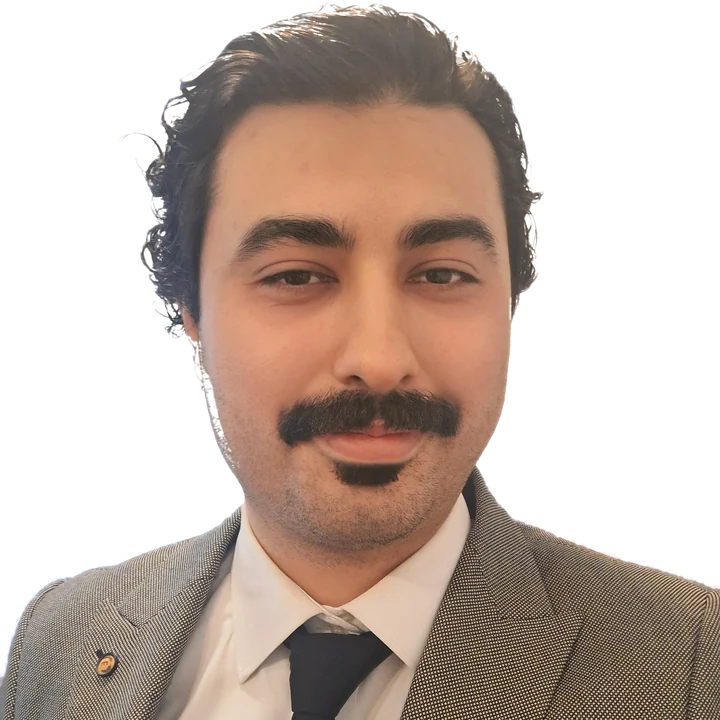
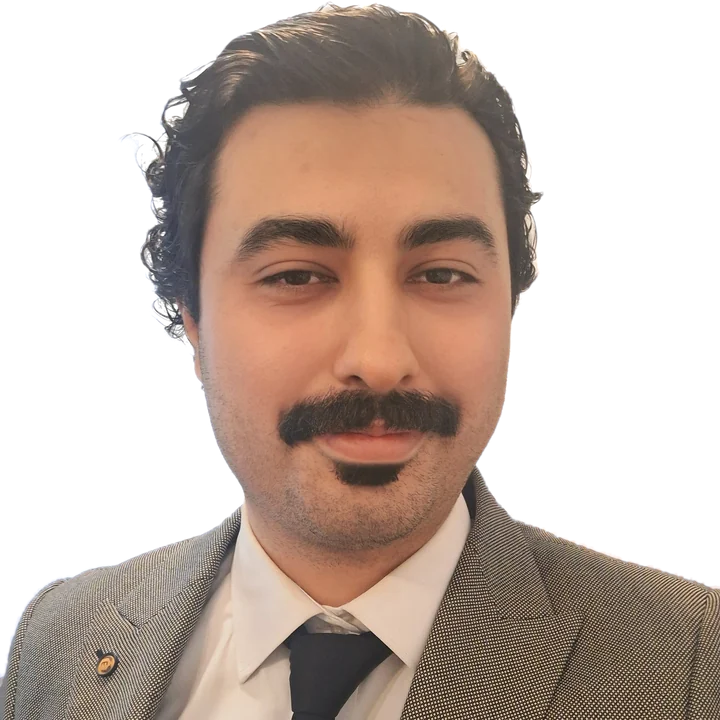
Fix portrait cutout and restore Python on the thesis page
Claude-Session: https://claude.ai/code/session_014ouKrV8vToS1MCxCgtcfN7

diff --git a/projects/msc-thesis.html b/projects/msc-thesis.html
@@ -22,12 +22,12 @@
 </div></header>
 <main id="main"><div class="wrap">
 <a class="back" href="../index.html#projects">← All projects</a>
-<div class="p-head"><span class="eyebrow">MSc thesis · Concordia · 2025</span><h1>Paradoxical Value Co-Creation Through Destructive Behaviors: Trash Talking in Dota 2</h1><p class="lead">Co-creation is usually tied to positive behavior. My thesis asked how a negative behavior, trash talking in one of the most competitive online games, can still create value for the people involved.</p><div class="tags"><span class="tag">User research</span><span class="tag">Semi-structured interviews</span><span class="tag">Inductive coding</span><span class="tag">Thematic analysis</span></div>
+<div class="p-head"><span class="eyebrow">MSc thesis · Concordia · 2025</span><h1>Paradoxical Value Co-Creation Through Destructive Behaviors: Trash Talking in Dota 2</h1><p class="lead">Co-creation is usually tied to positive behavior. My thesis asked how a negative behavior, trash talking in one of the most competitive online games, can still create value for the people involved.</p><div class="tags"><span class="tag">User research</span><span class="tag">Semi-structured interviews</span><span class="tag">Python</span><span class="tag">Inductive coding</span><span class="tag">Thematic analysis</span></div>
 <dl class="meta"><div><dt>Role</dt><dd>Researcher</dd></div><div><dt>When</dt><dd>Defended March 2025</dd></div><div><dt>Where</dt><dd>Concordia, MSc Marketing</dd></div><div><dt>Method</dt><dd>Qualitative</dd></div></dl></div>
 <figure class="sim"><div class="sim-bar"><span>msc_thesis · simulation</span><button type="button" class="sim-pause" aria-pressed="false">Pause</button></div>
 <canvas data-sim="thesis"  role="img" aria-label="Animated simulation: A qualitative study of 10 player interviews and 10 forum threads, coded into four kinds of value and the line where it turns harmful."></canvas>
 <figcaption>Quotes from interviews and forum threads are coded, then grouped into four kinds of value. Simulated flow of the analysis.</figcaption></figure>
-<div class="content"><div><h2>How I did it</h2><ul><li>Recruited active players through in-game chat and the game's main forum, and ran <strong>10 semi-structured interviews</strong> of 30 to 60 minutes over Zoom.</li><li>Archived <strong>10 forum threads</strong> with 20+ comments each using an archiving tool, to add the wider community's view.</li><li>Coded the transcripts <strong>inductively</strong> (first-order codes, second-order themes, aggregate dimensions) and adapted the interview guide after the first five interviews as themes emerged.</li></ul><h2>What I found</h2><p>Within limits, trash talking creates four kinds of value: <strong>competition</strong> (constructive criticism and psychological pressure), <strong>fun</strong>, <strong>self-image</strong> (feeling and playing better) and <strong>social bonding</strong> among friends. It stops creating value when it becomes personal, bigoted or aimed at demoralizing teammates.</p><h2>Why it matters for products</h2><p>The findings point to designing for the behavior instead of only banning it: structured ways to channel competitive banter, such as in-game communication tools, and treating harsh feedback as input to improve a product.</p></div><aside class="aside"><div class="callout"><span class="big">10 + 10</span>player interviews and forum threads, coded into four kinds of value</div><div class="box"><h3>Tools and skills</h3><div class="tags"><span class="tag">User research</span><span class="tag">Semi-structured interviews</span><span class="tag">Inductive coding</span><span class="tag">Thematic analysis</span></div></div></aside></div>
+<div class="content"><div><h2>How I did it</h2><ul><li>Recruited active players through in-game chat and the game's main forum, and ran <strong>10 semi-structured interviews</strong> of 30 to 60 minutes over Zoom.</li><li>Archived <strong>10 forum threads</strong> with 20+ comments each using a Python archiver, to add the wider community's view.</li><li>Coded the transcripts <strong>inductively</strong> (first-order codes, second-order themes, aggregate dimensions) and adapted the interview guide after the first five interviews as themes emerged.</li></ul><h2>What I found</h2><p>Within limits, trash talking creates four kinds of value: <strong>competition</strong> (constructive criticism and psychological pressure), <strong>fun</strong>, <strong>self-image</strong> (feeling and playing better) and <strong>social bonding</strong> among friends. It stops creating value when it becomes personal, bigoted or aimed at demoralizing teammates.</p><h2>Why it matters for products</h2><p>The findings point to designing for the behavior instead of only banning it: structured ways to channel competitive banter, such as in-game communication tools, and treating harsh feedback as input to improve a product.</p></div><aside class="aside"><div class="callout"><span class="big">10 + 10</span>player interviews and forum threads, coded into four kinds of value</div><div class="box"><h3>Tools and skills</h3><div class="tags"><span class="tag">User research</span><span class="tag">Semi-structured interviews</span><span class="tag">Python</span><span class="tag">Inductive coding</span><span class="tag">Thematic analysis</span></div></div></aside></div>
 <nav class="pager" aria-label="More projects"><a href="triage-agent.html"><span>← Previous</span>Backlog triage agent on the Claude API</a><a class="next" href="fraud-detection.html"><span>Next →</span>Fraud detection with machine learning and deep learning</a></nav>
 </div></main>
 <footer><div class="wrap"><span>© 2026 Alireza Esfandiari · Simulations use simulated data</span>

diff --git a/index.html b/index.html
@@ -81,7 +81,7 @@
   <div class="body">
     <span class="kicker">MSc thesis · Concordia · 2025</span>
     <h3><a href="projects/msc-thesis.html">Paradoxical Value Co-Creation Through Destructive Behaviors: Trash Talking in Dota 2</a></h3>
-    <div class="tags"><span class="tag">User research</span><span class="tag">Semi-structured interviews</span><span class="tag">Inductive coding</span><span class="tag">Thematic analysis</span></div>
+    <div class="tags"><span class="tag">User research</span><span class="tag">Semi-structured interviews</span><span class="tag">Python</span><span class="tag">Inductive coding</span><span class="tag">Thematic analysis</span></div>
     <span class="more" aria-hidden="true">View details <span class="arr">→</span></span>
   </div>
 </article><article class="pcard" data-cats="data ai">
